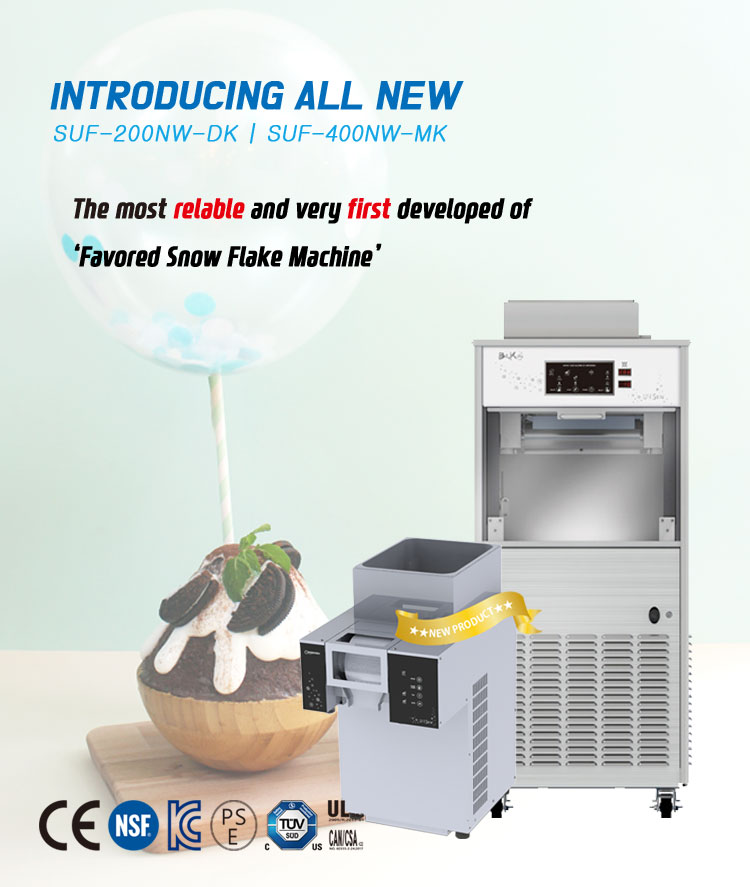
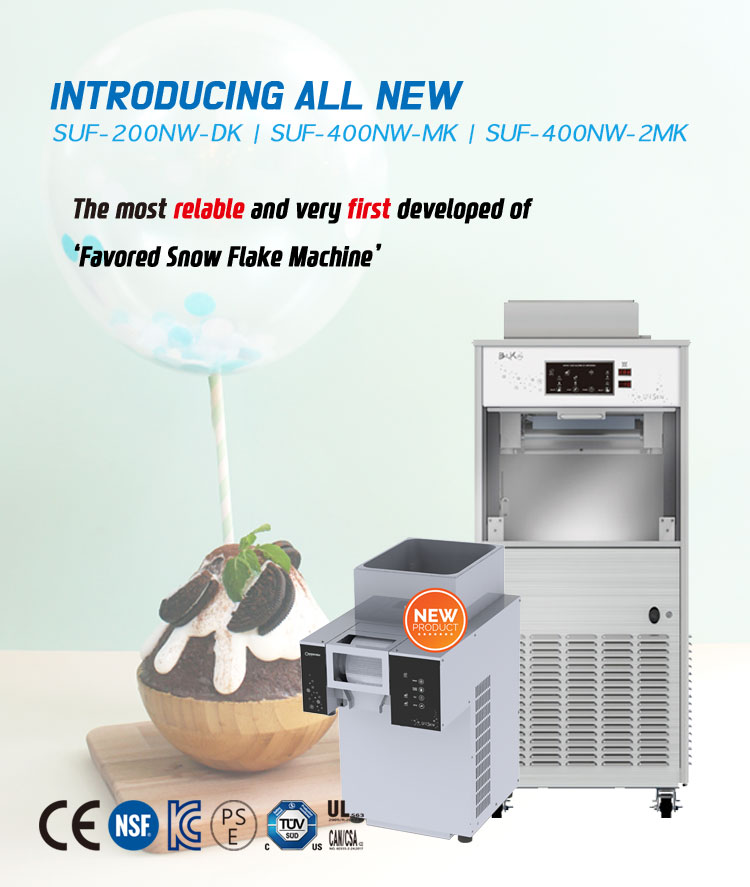
2019-07-08 : Code cleanup

diff --git a/publish/index.php b/publish/index.php
@@ -8,6 +8,15 @@
 <!-- GIHIN :: Main slider -->
 <link rel="stylesheet" href="<?php echo $front_css_url.'/swiper.min.css' ?>">
 <script src="<?php echo $front_js_url.'/swiper.min.js' ?>"></script>
+<!-- Global site tag (gtag.js) - Google Analytics -->
+<script async src="https://www.googletagmanager.com/gtag/js?id=UA-139047203-1"></script>
+<script>
+  window.dataLayer = window.dataLayer || [];
+  function gtag(){dataLayer.push(arguments);}
+  gtag('js', new Date());
+
+  gtag('config', 'UA-139047203-1');
+</script>
 <div class="">
 	<div class="main-slide-wrap">
 		<div class="main-slide">
@@ -56,6 +65,7 @@ var swiper = new Swiper('.swiper-container', {
 		delay: 2500,
 		disableOnInteraction: false,
 	},
+	effect: 'fade',
 	loop: true,
 	pagination: {
 		el: '.swiper-pagination',
@@ -95,22 +105,23 @@ var swiper = new Swiper('.swiper-container', {
 		<p class="content col-12"><?php echo $langCode['companyCon']; ?></p>
 		<div class="row p-0 pt-5 mt-5">
 			<div class="col-lg-4 text-center">
-				<img src="<?php echo($front_img_url); ?>/resized5-300x300.jpg" alt="" class="img-fluid rounded-circle">
+				<img src="<?php echo($front_img_url); ?>/resized5-300x300.jpg" alt="Bingsu machine, SUF-400NW-2MK, SNOW ICE MACHINE, NSF Bingsu machine" class="img-fluid rounded-circle">
 				<h3 class="title mt-3 mb-3 text-center"><?php echo $langCode['comProductTitle1']; ?></h3>
-				<p class="content minH-160"><?php echo $langCode['comProductContent1']; ?></p>
+				<p class="content minH-lg-160"><?php echo $langCode['comProductContent1']; ?></p>
 				<a href="#machine" class="btn btn-warning m-mb-5"><?php echo $langCode['clickMe']; ?></a>
 			</div>
 			<div class="col-lg-4 text-center">
-				<img src="<?php echo($front_img_url); ?>/kitchen-300x300.jpg" alt="" class="img-fluid rounded-circle">
+				<img src="<?php echo($front_img_url); ?>/kitchen-300x300.jpg" alt="BARSKOREA Restaurant kitcheb interior" class="img-fluid rounded-circle">
 				<h3 class="title mt-3 mb-3 text-center"><?php echo $langCode['comProductTitle2']; ?></h3>
-				<p class="content minH-160"><?php echo $langCode['comProductContent2']; ?></p>
+				<p class="content minH-lg-160"><?php echo $langCode['comProductContent2']; ?></p>
 				<a href="<?php echo $site_url; ?>/product.php#kitchenItems" class="btn btn-warning m-mb-5"><?php echo $langCode['clickMe']; ?></a>
 			</div>
 			<div class="col-lg-4 text-center">
-				<img src="<?php echo($front_img_url); ?>/bek-gallery-17-300x300.jpg" alt="" class="img-fluid rounded-circle">
+				<img src="<?php echo($front_img_url); ?>/bek-gallery-17-300x300.jpg" alt="BARSKOREA Cooking recipe" class="img-fluid rounded-circle">
 				<h3 class="title mt-3 mb-3 text-center"><?php echo $langCode['comProductTitle3']; ?></h3>
-				<p class="content minH-160"><?php echo $langCode['comProductContent3']; ?></p>
-				<a href="<?php echo $site_url; ?>/bkkorea.php#BKkoreaBranding" class="btn btn-warning m-mb-5"><?php echo $langCode['clickMe']; ?></a>
+				<p class="content minH-lg-160"><?php echo $langCode['comProductContent3']; ?></p>
+				<!--<a href="<?php echo $site_url; ?>/bkkorea.php#BKkoreaBranding" class="btn btn-warning m-mb-5">-->
+				<a href="http://www.bekkorea.com" target="_blank" class="btn btn-warning m-mb-5"><?php echo $langCode['clickMe']; ?></a>
 			</div>
 		</div>
 	</div>
@@ -128,7 +139,7 @@ var swiper = new Swiper('.swiper-container', {
 <div class="block-wrap light-bg">
 	<div class="container">
 		<div class="row machine-ex p-0">
-			<div class="col-lg-6 order-lg-1 order-2 d-flex flex-direction-column space-between">
+			<div class="col-lg-6 order-lg-1 order-2 d-flex flex-direction-column">
 				<div>
 					<h2 class="bar-title text-center"><?php echo($langCode['SUF400NWMK']); ?></h2>
 					<div class="content pl-5 pr-5 mb-5"><?php echo($langCode['SUF400NWMKCon']); ?></div>
@@ -139,7 +150,7 @@ var swiper = new Swiper('.swiper-container', {
 						</div>
 						<div class="col-lg-6 mb-3">
 							<h2 class="mb-0"><?php echo($langCode['CoolingType']); ?></h2>
-							<span><?php echo($langCode['Air']); ?>/<?php echo($langCode['Water']); ?></span>
+							<span><?php echo($langCode['Air']); ?></span>
 						</div>
 						<div class="col-lg-6 mb-3">
 							<h2 class="mb-0"><?php echo($langCode['Weight']); ?></h2>
@@ -164,10 +175,13 @@ var swiper = new Swiper('.swiper-container', {
 							<span><?php echo($langCode['Snow']); ?>/<?php echo($langCode['FlavoredShavedIce']); ?></span>
 						</div>
 						<div class="col-lg-6 mb-3">
-							<h2 class="mb-0"><?php echo($langCode['Container']); ?></h2>
+							<h2 class="mb-0"><?php echo($langCode['Storage']); ?></h2>
 							<span>20kg(100bw/200g)</span>
 						</div>
 					</div>
+				</div>
+				<div class="mt-5 mb-3">
+					<img src="<?php echo($front_img_url) ?>/no_water_connect_need.png" alt="No water connect need" class="img-fluid" />
 				</div>
 				<div class="row-5">
 					<div class="col-lg-2 col-md-4 col-sm-4 col-2 mt-2 mb-2 text-xs-center"><img src="<?php echo($front_img_url) ?>/mark/ce-150x150.png" alt="CE" class="img-fluid"></div>
@@ -179,7 +193,7 @@ var swiper = new Swiper('.swiper-container', {
 				</div>
 			</div>
 			<div class="col-lg-6 order-lg-2 order-1">
-				<img src="<?php echo $front_img_url ?>/400MK-960x720.jpg" alt="" class="img-fluid">
+				<img src="<?php echo $front_img_url ?>/bingsu-machine-400MK-960x720.jpg" alt="400MK : barskorea Snow ice machine,bingsu, bingsu machine, sulbing,sulbing machine, bingbox machine,bingbox, be.k, bek dessert cafe,barskorea, bk korea, sul n bean, sul&bean" class="img-fluid">
 			</div>
 		</div>
 	</div>
@@ -190,24 +204,29 @@ var swiper = new Swiper('.swiper-container', {
 	<div class="container">
 		<div class="row machine-ex p-0">
 			<div class="col-lg-6">
-				<img src="<?php echo $front_img_url ?>/400-2mk.png" alt="" class="img-fluid">
+				<img src="<?php echo $front_img_url ?>/bingsu-machine-400-2mk.png" alt="400 2MK : barskorea Snow ice machine,bingsu, bingsu machine, sulbing,sulbing machine, bingbox machine,bingbox, be.k, bek dessert cafe,barskorea, bk korea, sul n bean, sul&bean" class="img-fluid">
 			</div>
 			<div class="col-lg-6 d-flex flex-direction-column space-between">
 				<div class="">
 					<h2 class="bar-title text-center">
 						<?php echo($langCode['SUF400NW2MK']); ?>
 					</h2>
-					<div class="content pl-5 pr-5 mb-5">
+					<div class="content mb-5">
 						<?php echo($langCode['SUF400NW2MKCon']); ?>
+						<?php if($currentLang == 'eng') { ?>
+						<span class="d-block color-orange mt-4 text-center font-2rem bold">
+							Two Flavors at Same Time
+						</span>
+						<?php } ?>
 					</div>
 					<div class="row">
 						<div class="col-lg-6 mb-3">
 							<h2 class="mb-0"><?php echo($langCode['Measurements']); ?></h2>
-							<span>548 X 541 X 1250mm</span>
+							<span>548 X 581 X 1250mm</span>
 						</div>
 						<div class="col-lg-6 mb-3">
 							<h2 class="mb-0"><?php echo($langCode['CoolingType']); ?></h2>
-							<span><?php echo($langCode['Air']); ?>/<?php echo($langCode['Water']); ?></span>
+							<span><?php echo($langCode['Air']); ?></span>
 						</div>
 						<div class="col-lg-6 mb-3">
 							<h2 class="mb-0"><?php echo($langCode['Weight']); ?></h2>
@@ -219,7 +238,7 @@ var swiper = new Swiper('.swiper-container', {
 						</div>
 						<div class="col-lg-6 mb-3">
 							<h2 class="mb-0"><?php echo($langCode['Power']); ?></h2>
-							<span>110-240V, 50-60Hz</span>
+							<span>220-240V, 50-60Hz</span>
 						</div>
 						<div class="col-lg-6 mb-3">
 							<h2 class="mb-0">
@@ -232,10 +251,13 @@ var swiper = new Swiper('.swiper-container', {
 							<span><?php echo($langCode['Snow']); ?>/<?php echo($langCode['FlavoredShavedIce']); ?></span>
 						</div>
 						<div class="col-lg-6 mb-3">
-							<h2 class="mb-0"><?php echo($langCode['Container']); ?></h2>
+							<h2 class="mb-0"><?php echo($langCode['Storage']); ?></h2>
 							<span>20kg(100bw/200g)</span>
 						</div>
 					</div>
+				</div>
+				<div class="mt-5 mb-3">
+					<img src="<?php echo($front_img_url) ?>/no_water_connect_need.png" alt="No water connect need" class="img-fluid" />
 				</div>
 				<div class="row-5">
 					<div class="col-lg-2 col-md-2 col-sm-2 col-2 mt-2 mb-2"><img src="<?php echo($front_img_url) ?>/mark/ce-150x150.png" alt="CE" class="img-fluid"></div>
@@ -269,7 +291,7 @@ var swiper = new Swiper('.swiper-container', {
 						</div>
 						<div class="col-lg-6 mb-3">
 							<h2 class="mb-0"><?php echo($langCode['Weight']); ?></h2>
-							<span>54kgs</span>
+							<span>51kgs</span>
 						</div>
 						<div class="col-lg-6 mb-3">
 							<h2 class="mb-0"><?php echo($langCode['Production']); ?></h2>
@@ -291,7 +313,7 @@ var swiper = new Swiper('.swiper-container', {
 						</div>
 						<div class="col-lg-6 mb-3">
 							<h2 class="mb-0"><?php echo($langCode['Container']); ?></h2>
-							<span>6kg(41bw/200g)</span>
+							<span>6 liters</span>
 						</div>
 					</div>
 				</div>
@@ -305,7 +327,7 @@ var swiper = new Swiper('.swiper-container', {
 				</div>
 			</div>
 			<div class="col-lg-6 order-lg-2 order-1">
-				<img src="<?php echo $front_img_url ?>/200dk.png" alt="" class="img-fluid">
+				<img src="<?php echo $front_img_url ?>/bingsu-machine-200dk.png" alt="200DK : barskorea Small but powerful Snow ice machine,bingsu, bingsu machine, sulbing,sulbing machine, bingbox machine,bingbox, be.k, bek dessert cafe,barskorea, bk korea, sul n bean, sul&bean" class="img-fluid">
 			</div>
 		</div>
 	</div>
@@ -358,55 +380,79 @@ var swiper = new Swiper('.swiper-container', {
 				<p class="pt-1 pb-1"><?php echo $langCode['FeaturesContent6']; ?></p>
 			</div>
 		</div>
-		<div class="row-10 mt-5">
+		<div class="row-10 mt-5 machin-info">
 			<div class="col-lg-3">
-				<img src="<?php echo($front_img_url) ?>/machine1.jpg" alt="" class="img-fluid rounded-1rem">
+				<div class="row">
+					<div class="col-12">
+						<img src="<?php echo($front_img_url) ?>/machine1.jpg" alt="Bingsu machine High Production" class="img-fluid rounded-1rem">
+					</div>
+					<div class="col-12">
+						<h2 class="title"><?php echo $langCode['HighProduction']; ?></h2>
+						<p class="content"><?php echo $langCode['HighProductionCon']; ?></p>
+					</div>
+				</div>
 			</div>
 			<div class="col-lg-3">
-				<h2 class="title"><?php echo $langCode['HighProduction']; ?></h2>
-				<p class="content"><?php echo $langCode['HighProductionCon']; ?></p>
+				<div class="row">
+					<div class="col-12 order-1 order-lg-2">
+						<img src="<?php echo($front_img_url) ?>/machine2.jpg" alt="Bingsu machine Easy Cleaning System
+" class="img-fluid rounded-1rem">
+	
+					</div>
+					<div class="col-12 order-2 order-lg-1" style="min-height: 223px;">
+						<h2 class="title"><?php echo $langCode['EasyCleaningSystem']; ?></h2>
+						<p class="content"><?php echo $langCode['EasyCleaningSystemCon']; ?></p>
+					</div>
+				</div>
 			</div>
 			<div class="col-lg-3">
-				<img src="<?php echo($front_img_url) ?>/machine2.jpg" alt="" class="img-fluid rounded-1rem">
+				<div class="row">
+					<div class="col-12">
+						<img src="<?php echo($front_img_url) ?>/machine3.jpg" alt="Bingsu machine Cooling Function" class="img-fluid rounded-1rem">
+					</div>
+					<div class="col-12">
+						<h2 class="title"><?php echo $langCode['CoolingFunction']; ?></h2>
+						<p class="content"><?php echo $langCode['CoolingFunctionCon']; ?></p>
+					</div>
+				</div>					
 			</div>
 			<div class="col-lg-3">
-				<h2 class="title"><?php echo $langCode['EasyCleaningSystem']; ?></h2>
-				<p class="content"><?php echo $langCode['EasyCleaningSystemCon']; ?></p>
-			</div>
-		</div>
-		<div class="row-10">
-			<div class="col-lg-3 order-lg-1 order-2">
-				<h2 class="title"><?php echo $langCode['CoolingFunction']; ?></h2>
-				<p class="content"><?php echo $langCode['CoolingFunctionCon']; ?></p>
-			</div>
-			<div class="col-lg-3 order-lg-2 order-1">
-				<img src="<?php echo($front_img_url) ?>/machine3.jpg" alt="" class="img-fluid rounded-1rem">
-			</div>
-			<div class="col-lg-3 order-lg-3 order-4">
-				<h2 class="title"><?php echo $langCode['EasyFunctionSystem']; ?></h2>
-				<p class="content"><?php echo $langCode['EasyFunctionSystemCon']; ?></p>
-			</div>
-			<div class="col-lg-3 order-lg-4 order-3">
-				<img src="<?php echo($front_img_url) ?>/machine4.jpg" alt="" class="img-fluid rounded-1rem">
+				<div class="row">
+					<div class="col-12 order-1 order-lg-2">
+						<img src="<?php echo($front_img_url) ?>/machine4.jpg" alt="Bingsu machine Easy Function System" class="img-fluid rounded-1rem">
+	
+					</div>
+					<div class="col-12 order-2 order-lg-1" style="min-height: 223px;">
+						<h2 class="title"><?php echo $langCode['EasyFunctionSystem']; ?></h2>
+						<p class="content"><?php echo $langCode['EasyFunctionSystemCon']; ?></p>
+					</div>
+				</div>
 			</div>
 		</div>
 	</div>
 </div>
 <div class="features-wrap block-wrap dark-bg">
-	<div class="container text-center">
+	<div class="container text-center vimeo-container1">
 		<h2 class="bar-title"><?php echo $langCode['CheckOutOurSuperSnowMachines']; ?></h2>
 		<p class="content"><?php echo $langCode['CheckOutOurSuperSnowMachinesCon']; ?></p>
-		<a href="https://vimeo.com/242702098" data-vimeo data-vimeo-loop data-vimeo-autoplay data-vimeo-maxwidth="640" class="vimeo">
-			<img src="http://posterfra.me/https://vimeo.com/242702098" alt="Barskorea Super Snow Machines" />
+		<a href="https://vimeo.com/242702098" data-vimeo data-vimeo-loop data-vimeo-maxwidth="640" class="vimeo d-block">
+			<img src="http://posterfra.me/https://vimeo.com/242702098" alt="Barskorea Super Snow Machines" class="img-fluid" />
 		</a>
 	</div>
 </div>
 <div class="features-wrap block-wrap orange-bg">
-	<div class="container text-center">
+	<div class="container text-center vimeo-container2">
 		<h2 class="bar-title"><?php echo $langCode['YourBrandingPartner']; ?></h2>
 		<p class="content mp-10"><?php echo $langCode['YourBrandingPartnerCon']; ?></p>
-		<a href="https://vimeo.com/287376612" data-vimeo data-vimeo-loop data-vimeo-autoplay data-vimeo-maxwidth="640" class="vimeo">
-			<img src="http://posterfra.me/https://vimeo.com/287376612" alt="Barskorea Super Snow Machines" />
+		<?php
+			if($currentLang == 'eng') {
+				echo '<p class="content d-inline-block" style="margin: 0 auto 20px auto; padding: 10px 20px; background-color: #f67711; font-weight: bold; border-radius: 25px;">';
+				echo 'Click the video <span style="font-size: 20px;"><i class="fa fa-sort-desc" aria-hidden="true"></i></span>';
+				echo '</p>';
+			}
+		?>
+		<a href="https://vimeo.com/287376612" data-vimeo data-vimeo-loop data-vimeo-maxwidth="640" class="vimeo d-block">
+			<img src="http://posterfra.me/https://vimeo.com/287376612" alt="Barskorea Super Snow Machines" class="img-fluid" />
 		</a>
 	</div>
 </div>
@@ -422,7 +468,7 @@ var swiper = new Swiper('.swiper-container', {
 					<a href="<?php echo $site_url?>/bkkorea.php" class="btn btn-light"><?php echo $langCode['clickMe']; ?></a>
 				</div>
 			</div>
-			<div class="col-lg-6">
+			<div class="col-lg-6 mt-5 mt-lg-0">
 				<img src="<?php echo($front_img_url); ?>/bek_image.jpg" alt="" class="img-fluid" />
 			</div>
 		</div>
@@ -563,7 +609,7 @@ $res = $db -> query($sql, array($galleryFile, $galleryTable));
 					<?php echo($langCode['Email']); ?>. <a href="mailto:barskorea@hanmail.net">barskorea@hanmail.net</a><br />
 					<?php echo($langCode['Tel']); ?>. <a href="tel:+82-32-581-3466">+82-32-581-3466</a><br />
 					<?php echo($langCode['Fax']); ?>. +82-32-581-8937<br />
-					<?php echo($langCode['conpanyWeb']); ?>. <a href="http://www.barskorea.com/" target="_blank">http://www.barskorea.com/</a>
+					<?php echo($langCode['conpanyWeb']); ?>. <a href="http://www.barskorea.com" target="_blank">http://www.barskorea.com</a>
 				</p>
 			</div>
 			<div class="col-lg-6">

diff --git a/publish/contact_ok-2019-04-02.php b/publish/contact_ok-2019-04-02.php
@@ -32,8 +32,8 @@ $mail = new PHPMailer(true);                              // Passing `true` enab
 try {
     //Server settings
     $mail->CharSet = "euc-kr";
-    $mail->Encoding = "base64";
-    //$mail->SMTPDebug = 2;                                 // Enable verbose debug output
+	$mail->Encoding = "base64";
+    $mail->SMTPDebug = 2;                                 // Enable verbose debug output
     $mail->isSMTP();                                      // Set mailer to use SMTP
     $mail->Host = 'smtp.gmail.com';  // Specify main and backup SMTP servers
     $mail->SMTPAuth = true;                               // Enable SMTP authentication
@@ -43,14 +43,10 @@ try {
     $mail->Port = 587;                                    // TCP port to connect to
 
     //Recipients
-    /*
     $mail->setFrom('barskorea@hanmail.net', 'Contact US'); // 보내는 사람
     $mail->addAddress('barskorea@hanmail.net', 'barskorea'); // 받는 사람 Add a recipient
-    */
-    $mail->setFrom('3dwebart@daum.net', 'Contact US'); // 보내는 사람
-    $mail->addAddress('3dwebart@daum.net', 'barskorea'); // 받는 사람 Add a recipient
     //$mail->addAddress('ellen@example.com');               // Name is optional
-    $mail->addReplyTo($email, $name);
+    //$mail->addReplyTo('info@example.com', 'Information');
     //$mail->addCC('cc@example.com');
     //$mail->addBCC('bcc@example.com');
 
@@ -112,7 +108,7 @@ try {
     $mail->AltBody = 'This is the body in plain text for non-HTML mail clients';
 
     $mail->send();
-    //echo 'Message has been sent';
+    echo 'Message has been sent';
     redirect(FALSE, 'Your inquiry has been received');
 } catch (Exception $e) {
     echo 'Message could not be sent. Mailer Error: ', $mail->ErrorInfo;

diff --git a/publish/include/simple-php-captcha.php b/publish/include/simple-php-captcha.php
@@ -35,8 +35,8 @@ function simple_php_captcha($config = array()) {
             $font_path . 'times_new_yorker.ttf'
         ),
         'characters' => 'ABCDEFGHJKLMNPRSTUVWXYZabcdefghjkmnprstuvwxyz23456789',
-        'min_font_size' => 28,
-        'max_font_size' => 28,
+        'min_font_size' => 24,
+        'max_font_size' => 24,
         'color' => '#666',
         'angle_min' => 0,
         'angle_max' => 10,
